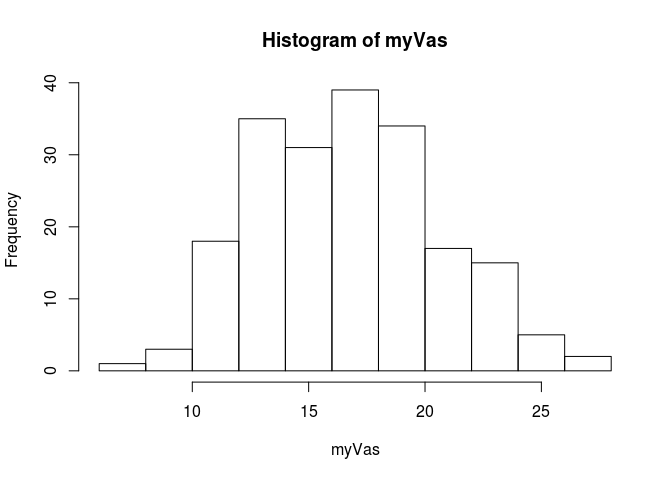
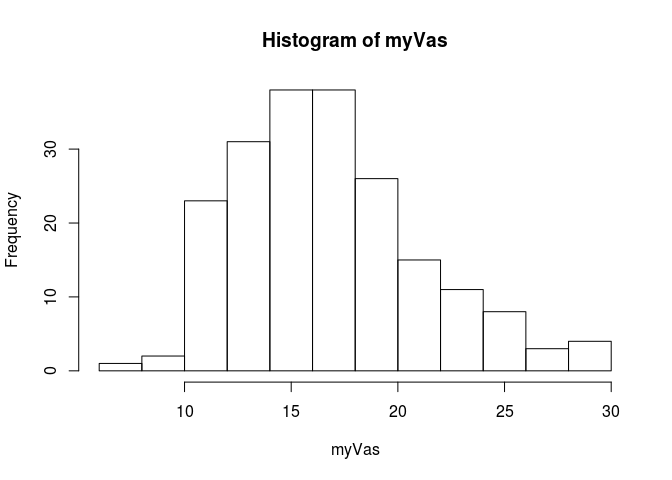
sim noodling

diff --git a/Simulations-traitqpc.md b/Simulations-traitqpc.md
@@ -135,27 +135,27 @@ save(mysims, file = "data/simFiles/qpc_loci_sims.rda")
 
 
 
-## simulate allele frequencies in each of 240 pops. nloci = 10500, 500 of these are used to make the trait, the rest to estimate K
+## simulate allele frequencies in each of 240 pops. nloci = 10500, 500 of these are used to make the trait, the rest to estimate K. Can use the K from the earlier sites, so only need to worry about the new 500 ones
 
 mysims500 = sapply(1:200, function(i){
 set.seed(i)
-nloci = 10550
+nloci = 500
 ancPop = runif(nloci, min=0, max=1) #ancestral allele frequenices
 presentPops1 = sapply(ancPop, function(x){mvrnorm(n=1, mu = rep(x,239), x*(1-x)*myK)})
 presentPops = apply(presentPops1, c(1,2), myBound) #deal with numbers greater or less than 0 (the outer bounds are sticky)
 popGenos = sapply(1:239, function(x) getPopGenos(x, presentPops, 1)) # matrix where each row is a SNP and each column is an individual
-myG = t(popGenos[501:10500,])/2#snps used to make K matrix
-myKsim = make_k_E(myG) #make a new pop matrix
-myEigsim = eigen(myKsim)
+#myG = t(popGenos[501:10500,])/2#snps used to make K matrix
+#myKsim = make_k_E(myG) #make a new pop matrix
+#myEigsim = eigen(myKsim)
 #plot(1:239,myEigsim$values[1:239])
-beetas = matrix(c(rnorm(500), rep(0, 10000)), ncol=1, nrow=nloci) 
+beetas = matrix(rnorm(500), ncol=1, nrow=500) 
 popPhenos = apply(popGenos, 2, function(x){x %*% beetas})
-myQpcneutral = calcQpc(popPhenos, myEigsim$vectors, myEigsim$values)
+#myQpcneutral = calcQpc(popPhenos, myEigsim$vectors, myEigsim$values)
 #plot(myEigsim$vectors[,1], popPhenos, bty="n", xlab = "PC1", ylab ="Sim phenos"
-return(list(phenos = popPhenos, kSim = myKsim, myCms = myQpcneutral$cm))
+return(list(phenos = popPhenos))
 })
 
-save(mysims50, file = "data/simFiles/qpc_loci_sims50.rda")
+save(mysims500, file = "data/simFiles/qpc_loci_sims500.rda")
 ```
 
 
@@ -164,10 +164,24 @@ Look at the simulations
 ```r
 mycol = lacroix_palette('Mango')
 load('data/simFiles/qpc_loci_sims.rda')
+load('data/simFiles/qpc_loci_sims500.rda')
 #mysims is a matrix, each column is a sim. first row is phenotypes (in 1 item list), second row is a one item list with the kinship matrix in it, third row is a list of the cm values. 
 #what do CM values look like across PCs
 myCms = sapply(1:200, function(x){mysims[3,x][[1]]}) #rows are PCs, cols are simulations
 myCmMeans = sapply(1:238, function(x){mean(myCms[x,]^2)})
+
+#generate the Cm values for the 500 snp sims
+myQpc500 = sapply(1:200, function(i){
+  myphenos = mysims500[[i]]
+  kSim = mysims[,i]$kSim
+  myEigsim = eigen(kSim)
+  myQpcneutral = calcQpc(myphenos, myEigsim$vectors, myEigsim$values)
+  return(myQpcneutral)
+})
+
+myCms500 = sapply(1:200, function(x){myQpc500[1,x][[1]]}) #rows are PCs, cols are simulations
+myCmMeans500 = sapply(1:238, function(x){mean(myCms500[x,]^2)})
+
 
 #what is Va going to be?? based on our expectations from neutral sites
 myVas = sapply(1:200, function(x){calcVa(runif(50, min=0, max=1), rnorm(50))})
@@ -177,15 +191,23 @@ hist(myVas)
 ![](Simulations-traitqpc_files/figure-html/unnamed-chunk-4-1.png)<!-- -->
 
 ```r
+myVas500 = sapply(1:200, function(x){calcVa(runif(500, min=0, max=1), rnorm(500))})
+hist(myVas500)
+```
+
+![](Simulations-traitqpc_files/figure-html/unnamed-chunk-4-2.png)<!-- -->
+
+```r
 ## so Cm~N(0,2Va), so cm^2 ~ 2Va
 
+#for the 50 snps sims
 plot(-100,-100, xlim = c(0,240), ylim = c(0,max(myCms)^2), bty="n", xlab = "PC", ylab = "Cm^2")
 test = sapply(1:200, function(x){points(1:238,myCms[,x]^2, col = mycol[3])})
 abline(v = 0.9*239, lwd=2)
 points(1:238,myCmMeans, col = mycol[6], pch=16)
 ```
 
-![](Simulations-traitqpc_files/figure-html/unnamed-chunk-4-2.png)<!-- -->
+![](Simulations-traitqpc_files/figure-html/unnamed-chunk-4-3.png)<!-- -->
 
 ```r
 myl = lm(myCmMeans ~ c(1:238))
@@ -224,7 +246,46 @@ points(noisefit, type='l', lwd=2, col = mycol[3])
 legend('topleft', c('Va', 'linear model', 'noise'), lwd=2, col = mycol[c(4,2,3)], bty="n")
 ```
 
-![](Simulations-traitqpc_files/figure-html/unnamed-chunk-4-3.png)<!-- -->
+![](Simulations-traitqpc_files/figure-html/unnamed-chunk-4-4.png)<!-- -->
+
+```r
+## for the 500 snps sims
+myl500 = lm(myCmMeans500 ~ c(1:238))
+summary(myl500)
+```
+
+```
+## 
+## Call:
+## lm(formula = myCmMeans500 ~ c(1:238))
+## 
+## Residuals:
+##      Min       1Q   Median       3Q      Max 
+## -112.859  -26.520   -0.825   25.732  109.320 
+## 
+## Coefficients:
+##              Estimate Std. Error t value Pr(>|t|)    
+## (Intercept) 323.80394    5.03805   64.27   <2e-16 ***
+## c(1:238)      0.48676    0.03655   13.32   <2e-16 ***
+## ---
+## Signif. codes:  0 '***' 0.001 '**' 0.01 '*' 0.05 '.' 0.1 ' ' 1
+## 
+## Residual standard error: 38.74 on 236 degrees of freedom
+## Multiple R-squared:  0.4291,	Adjusted R-squared:  0.4267 
+## F-statistic: 177.4 on 1 and 236 DF,  p-value: < 2.2e-16
+```
+
+```r
+plot(1:238, myCmMeans500, bty="n", xlab = "PC", ylab = "CM^2 means")
+abline(myl500, col = mycol[2], lwd=3)
+abline(h = mean(myVas500)*2, lwd=3, col = mycol[4])
+#points(noisefit, type='l', lwd=2, col = mycol[3])
+
+#legend('topleft', c('Va', 'linear model', 'noise'), lwd=2, col = mycol[c(4,2,3)], bty="n")
+legend('topleft', c('Va', 'linear model'), lwd=2, col = mycol[c(4,2)], bty="n")
+```
+
+![](Simulations-traitqpc_files/figure-html/unnamed-chunk-4-5.png)<!-- -->
 
 ```r
 #how often are we detecting selection using our standard parameters
@@ -235,7 +296,7 @@ plot(-100,-100, xlim = c(0,40), ylim=c(0, -log10(min(unlist(myps)))*1.1), bty="n
 test = sapply(1:200, function(x){points(-log10(myps[[x]]))})
 ```
 
-![](Simulations-traitqpc_files/figure-html/unnamed-chunk-4-4.png)<!-- -->
+![](Simulations-traitqpc_files/figure-html/unnamed-chunk-4-6.png)<!-- -->
 
 ```r
 #how many are below 0.05
@@ -247,7 +308,33 @@ plot(myps0.05/200, bty="n", xlab = "PC", ylab = "proportion where p<0.05", ylim 
 abline(h=0.05, col = mycol[3], lwd=2)
 ```
 
-![](Simulations-traitqpc_files/figure-html/unnamed-chunk-4-5.png)<!-- -->
+![](Simulations-traitqpc_files/figure-html/unnamed-chunk-4-7.png)<!-- -->
+
+```r
+#how often are we detecting selection using our standard parameters for 500 snps
+
+myps500 = sapply(1:200, function(x){myQpc500[,x]$pvals})
+plot(-100,-100, xlim = c(0,40), ylim=c(0, -log10(min(unlist(myps500)))*1.1), bty="n", xlab = "PC", ylab = "-log10 p")
+test = sapply(1:200, function(x){points(-log10(myps500[[x]]))})
+```
+
+![](Simulations-traitqpc_files/figure-html/unnamed-chunk-4-8.png)<!-- -->
+
+```r
+#how many are below 0.05
+myps0.05 = sapply(1:40, function(x){
+  pcpvals = unlist(lapply(myps500, function(y){y[x]}))
+  return(sum(pcpvals<0.05, na.rm=T))
+})
+plot(myps0.05/200, bty="n", xlab = "PC", ylab = "proportion where p<0.05", ylim = c(0,0.25))
+abline(h=0.05, col = mycol[3], lwd=2)
+```
+
+![](Simulations-traitqpc_files/figure-html/unnamed-chunk-4-9.png)<!-- -->
+
+```r
+##to do -- compare Va estimatates across all sites...
+```
 
 
 
